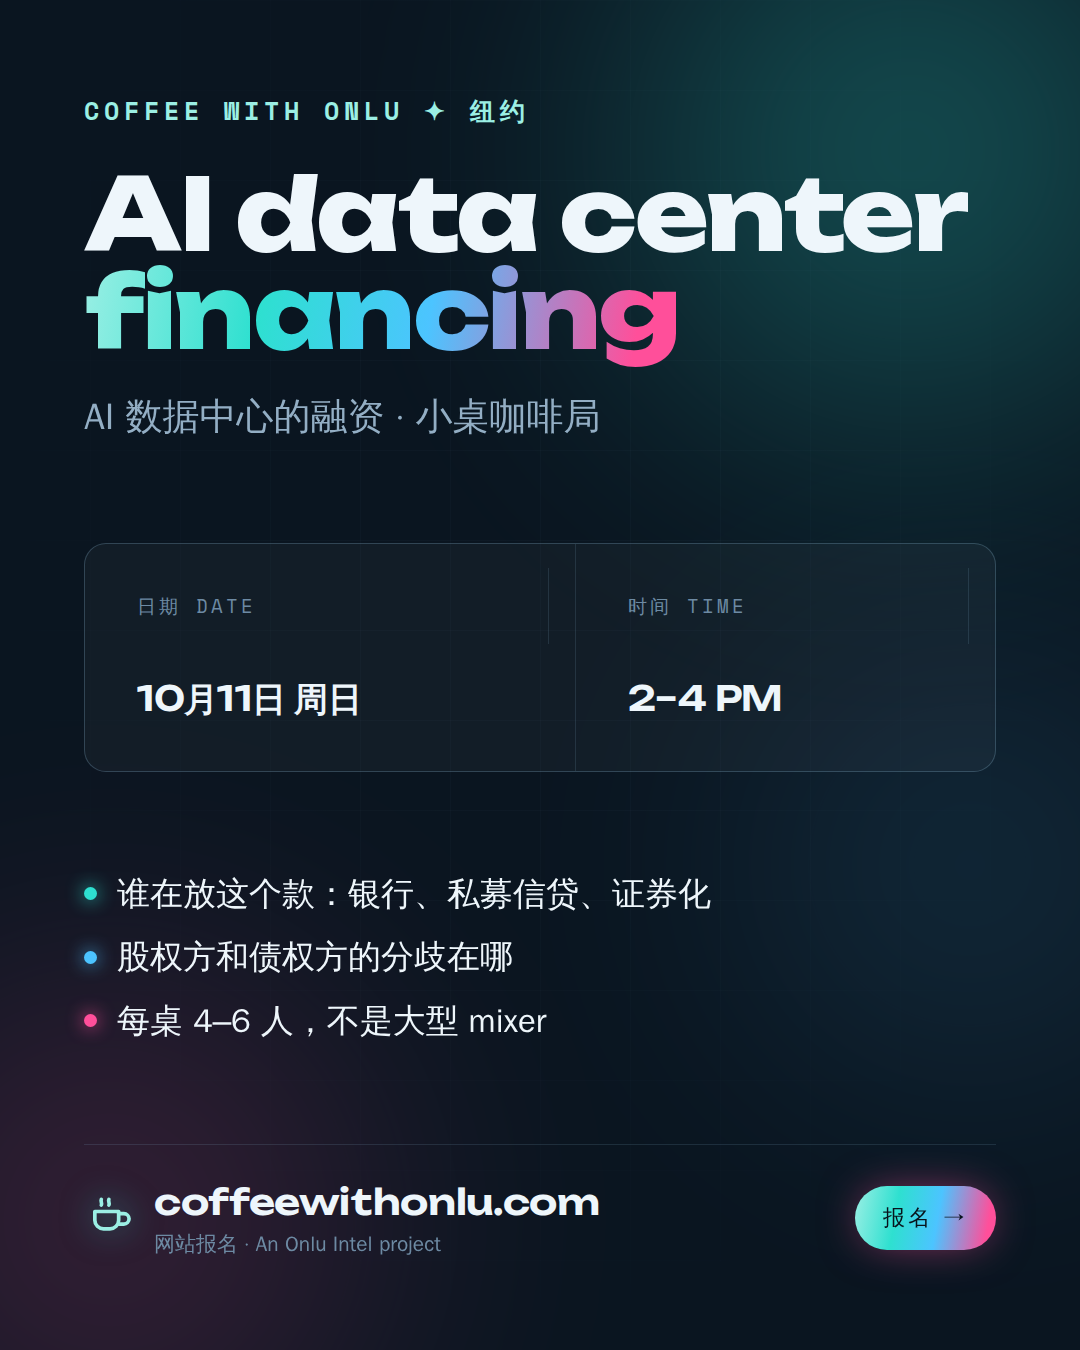
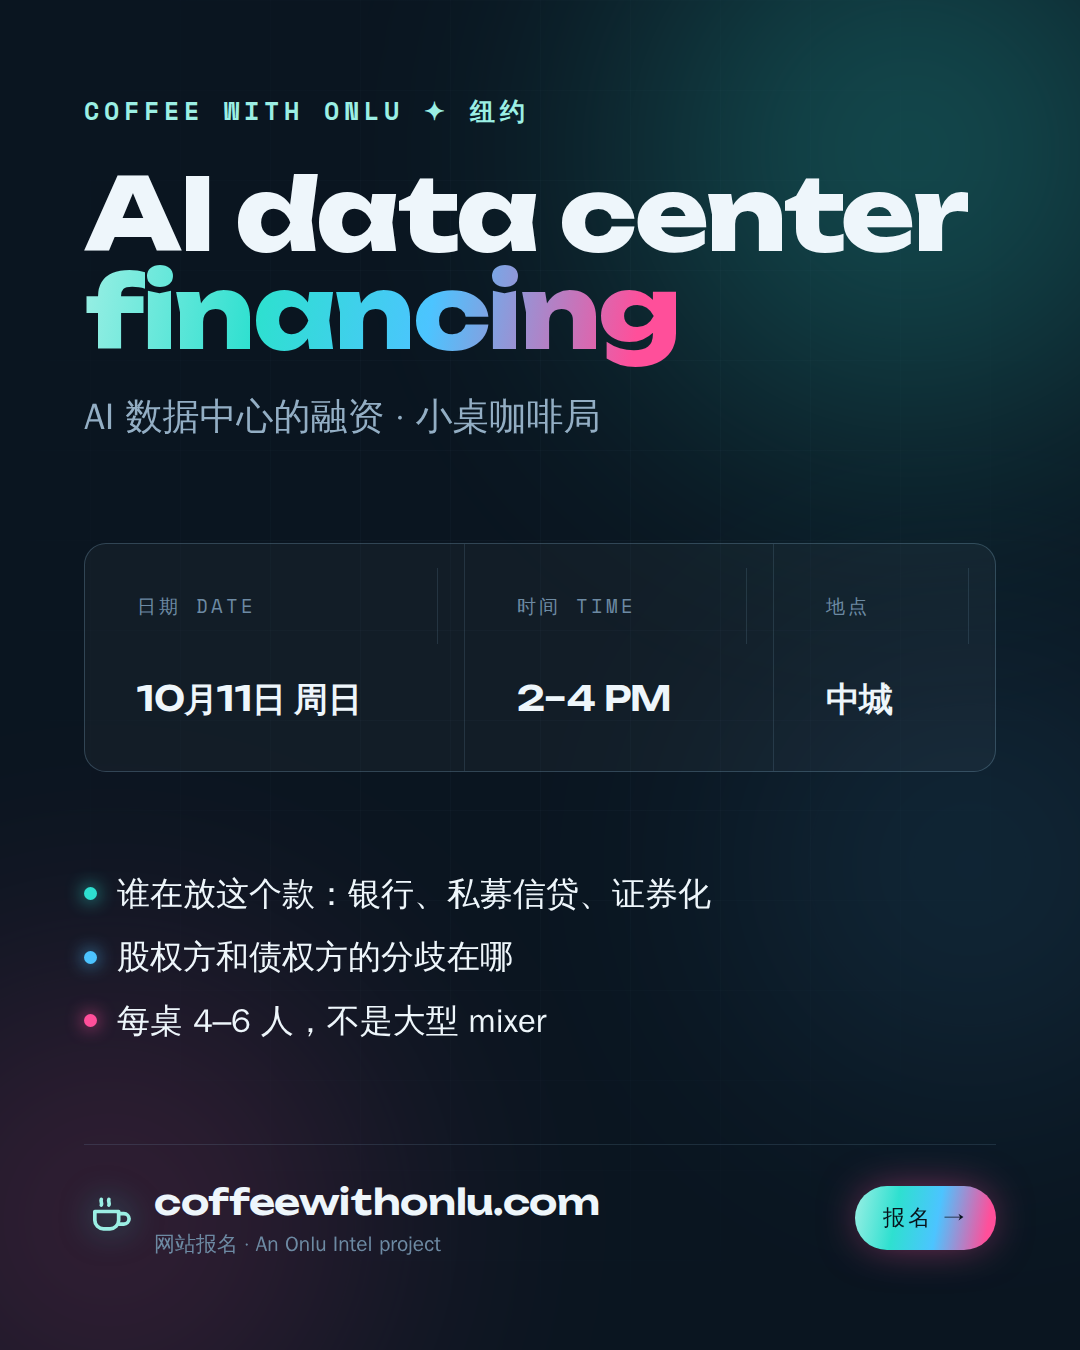
Set Midtown as the venue for the Oct 11 coffee
Fills the place field on the event and adds it to all four social cards.

Claude-Session: https://claude.ai/code/session_01THQHzvNsjhHsMdRnnGj1hD

diff --git a/social/poster.html b/social/poster.html
@@ -116,7 +116,7 @@ li::before{content:"";width:13px;height:13px;border-radius:50%;flex:none;margin-
       <div><div class="k">Date</div><div class="v">Sun · Oct 11</div></div>
       <div><div class="k">Time</div><div class="v">2–4 PM</div></div>
     </div>
-    <p class="seats" style="margin-top:26px;">NYC · tables of 4–6 · no pitching</p>
+    <p class="seats" style="margin-top:26px;">Midtown, NYC · tables of 4–6 · no pitching</p>
   </div>
 
   <div class="foot">
@@ -144,6 +144,7 @@ li::before{content:"";width:13px;height:13px;border-radius:50%;flex:none;margin-
     <div class="when">
       <div><div class="k">Date</div><div class="v">Sun · Oct 11</div></div>
       <div><div class="k">Time</div><div class="v">2–4 PM</div></div>
+      <div><div class="k">Where</div><div class="v">Midtown</div></div>
     </div>
   </div>
 
@@ -179,7 +180,7 @@ li::before{content:"";width:13px;height:13px;border-radius:50%;flex:none;margin-
       <div><div class="k">Date</div><div class="v">Sun · Oct 11</div></div>
       <div><div class="k">Time</div><div class="v">2–4 PM</div></div>
     </div>
-    <p class="seats" style="margin-top:28px;">NYC · tables of 4–6 · RSVP on the site</p>
+    <p class="seats" style="margin-top:28px;">Midtown, NYC · tables of 4–6 · RSVP on the site</p>
   </div>
 
   <ul>
@@ -213,6 +214,7 @@ li::before{content:"";width:13px;height:13px;border-radius:50%;flex:none;margin-
     <div class="when">
       <div><div class="k">日期 Date</div><div class="v zh">10月11日 周日</div></div>
       <div><div class="k">时间 Time</div><div class="v">2–4 PM</div></div>
+      <div><div class="k">地点</div><div class="v zh">中城</div></div>
     </div>
   </div>
 

diff --git a/app.js b/app.js
@@ -94,7 +94,7 @@
       iso: "2026-10-11",
       date: "Sunday, Oct 11",
       time: "2:00–4:00 PM",
-      place: "",                        // add the neighbourhood once it's set
+      place: "Midtown",
       note: "",
       full: false,
       partiful: "",  // add this coffee's Partiful link here
